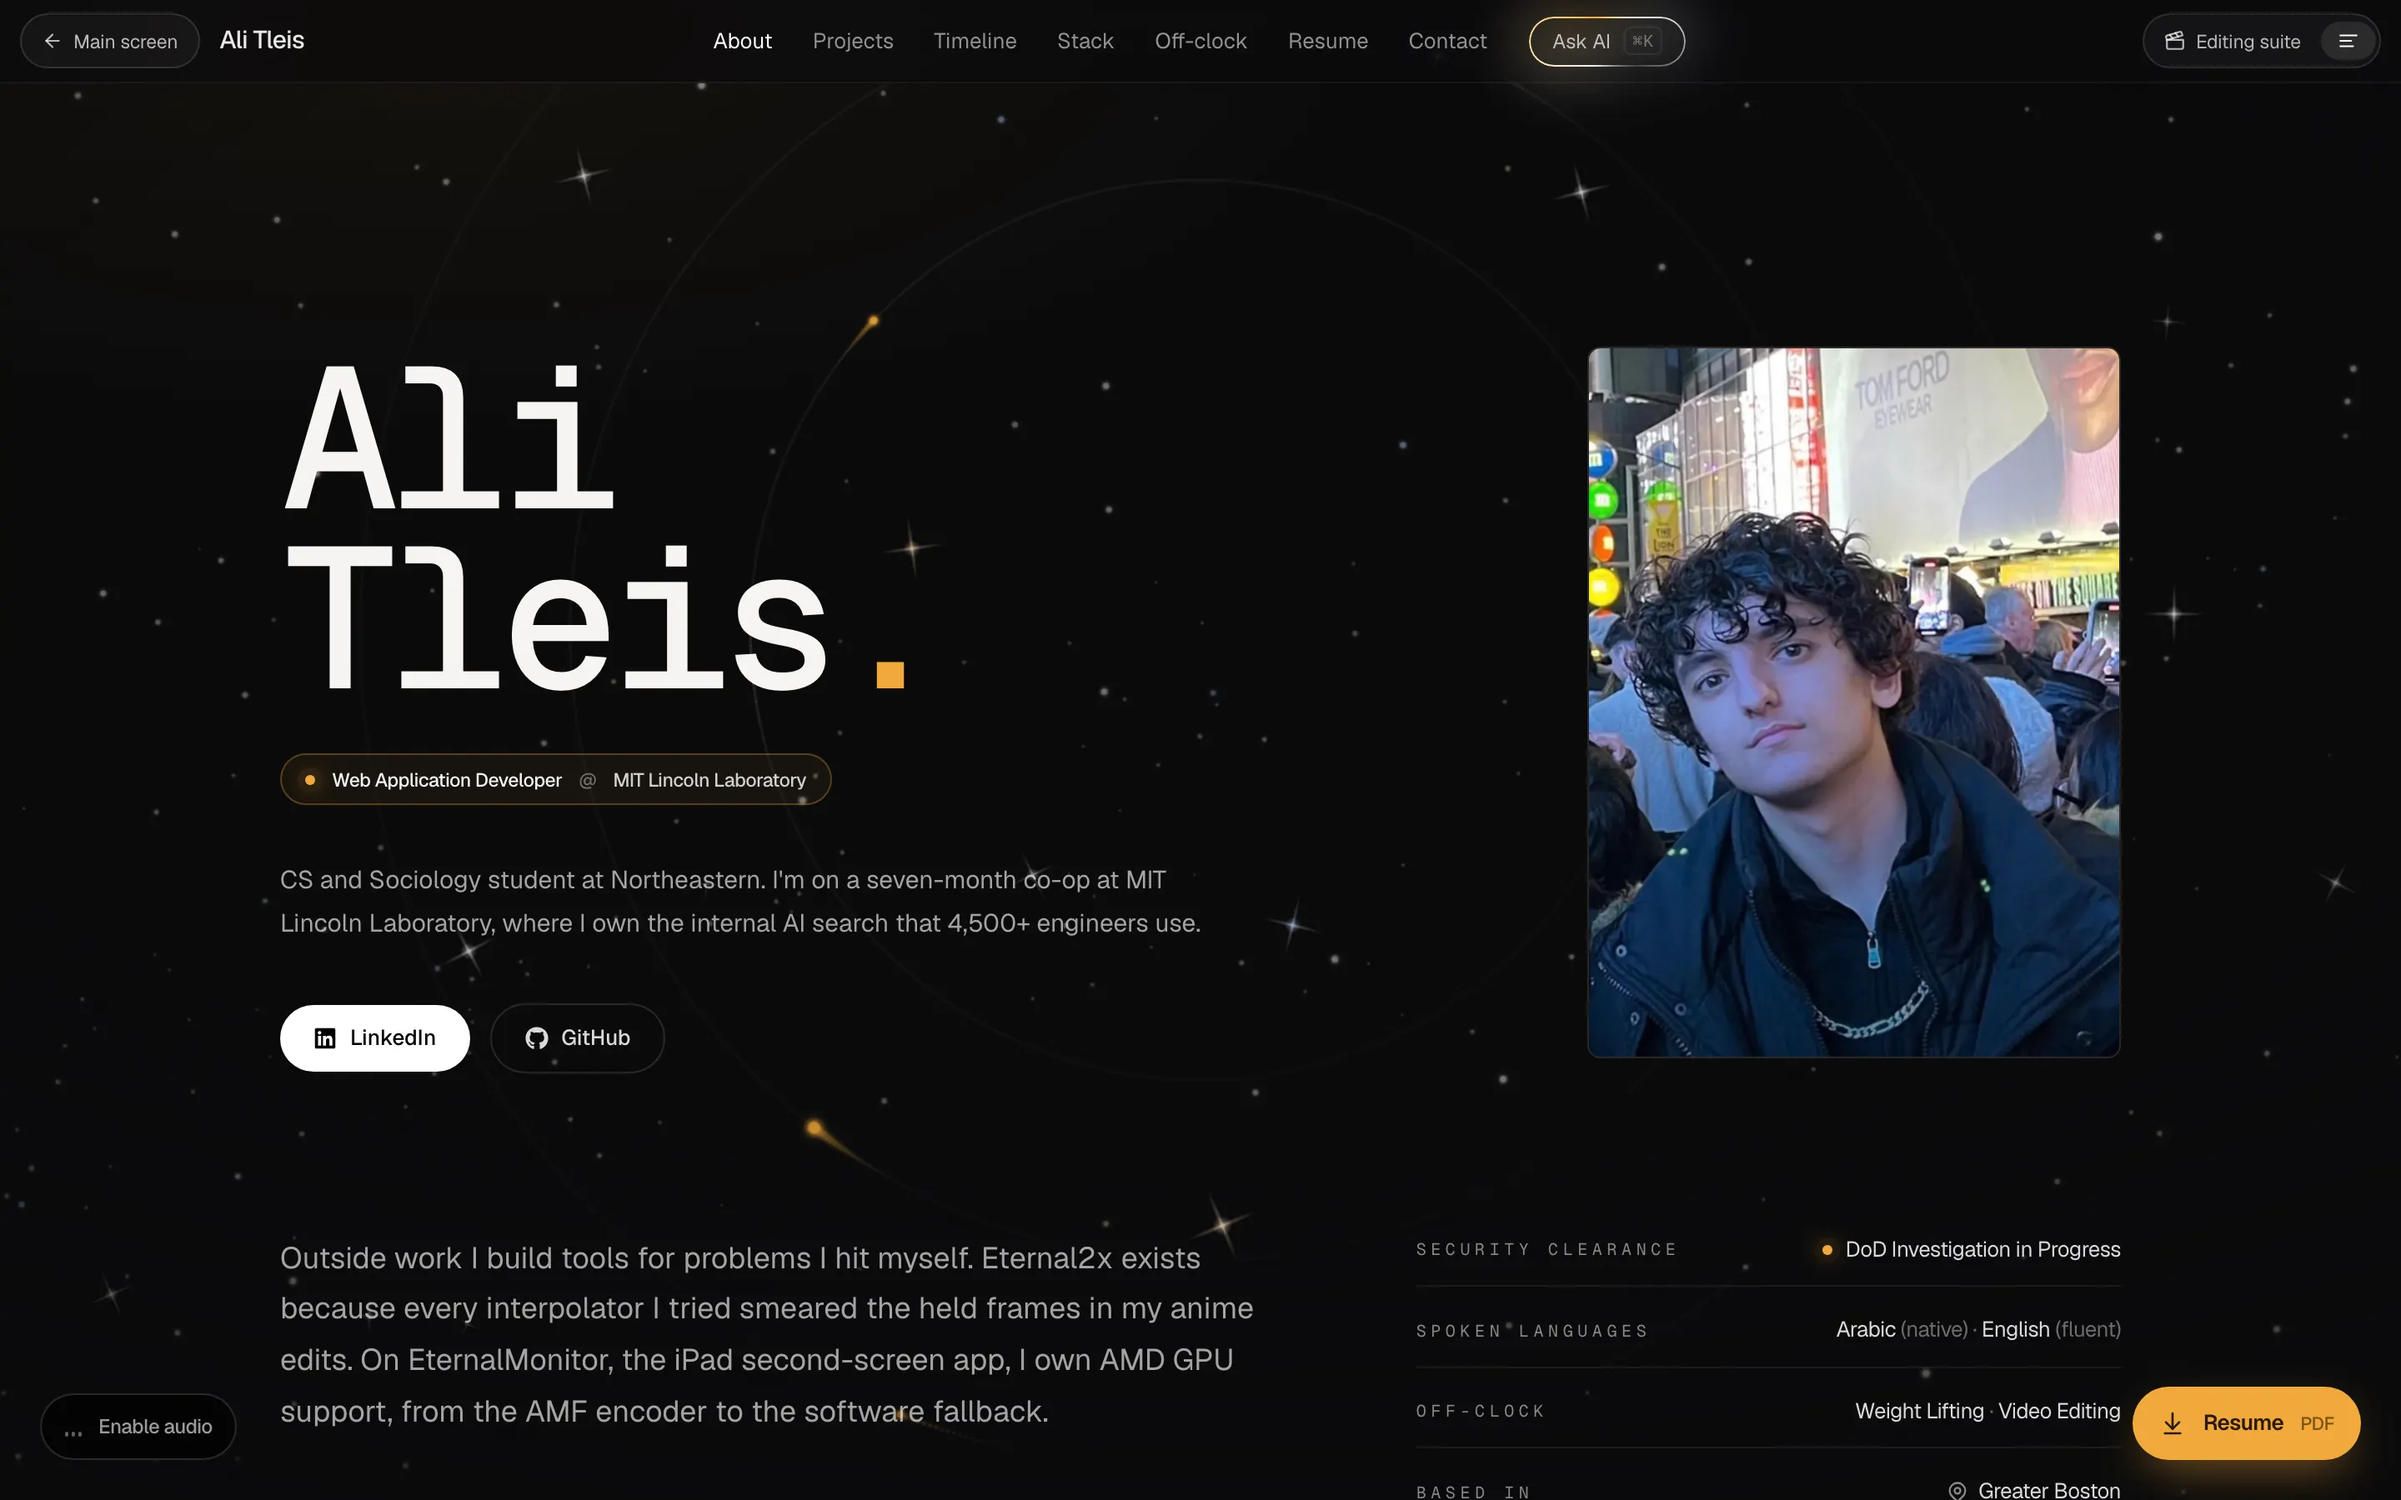
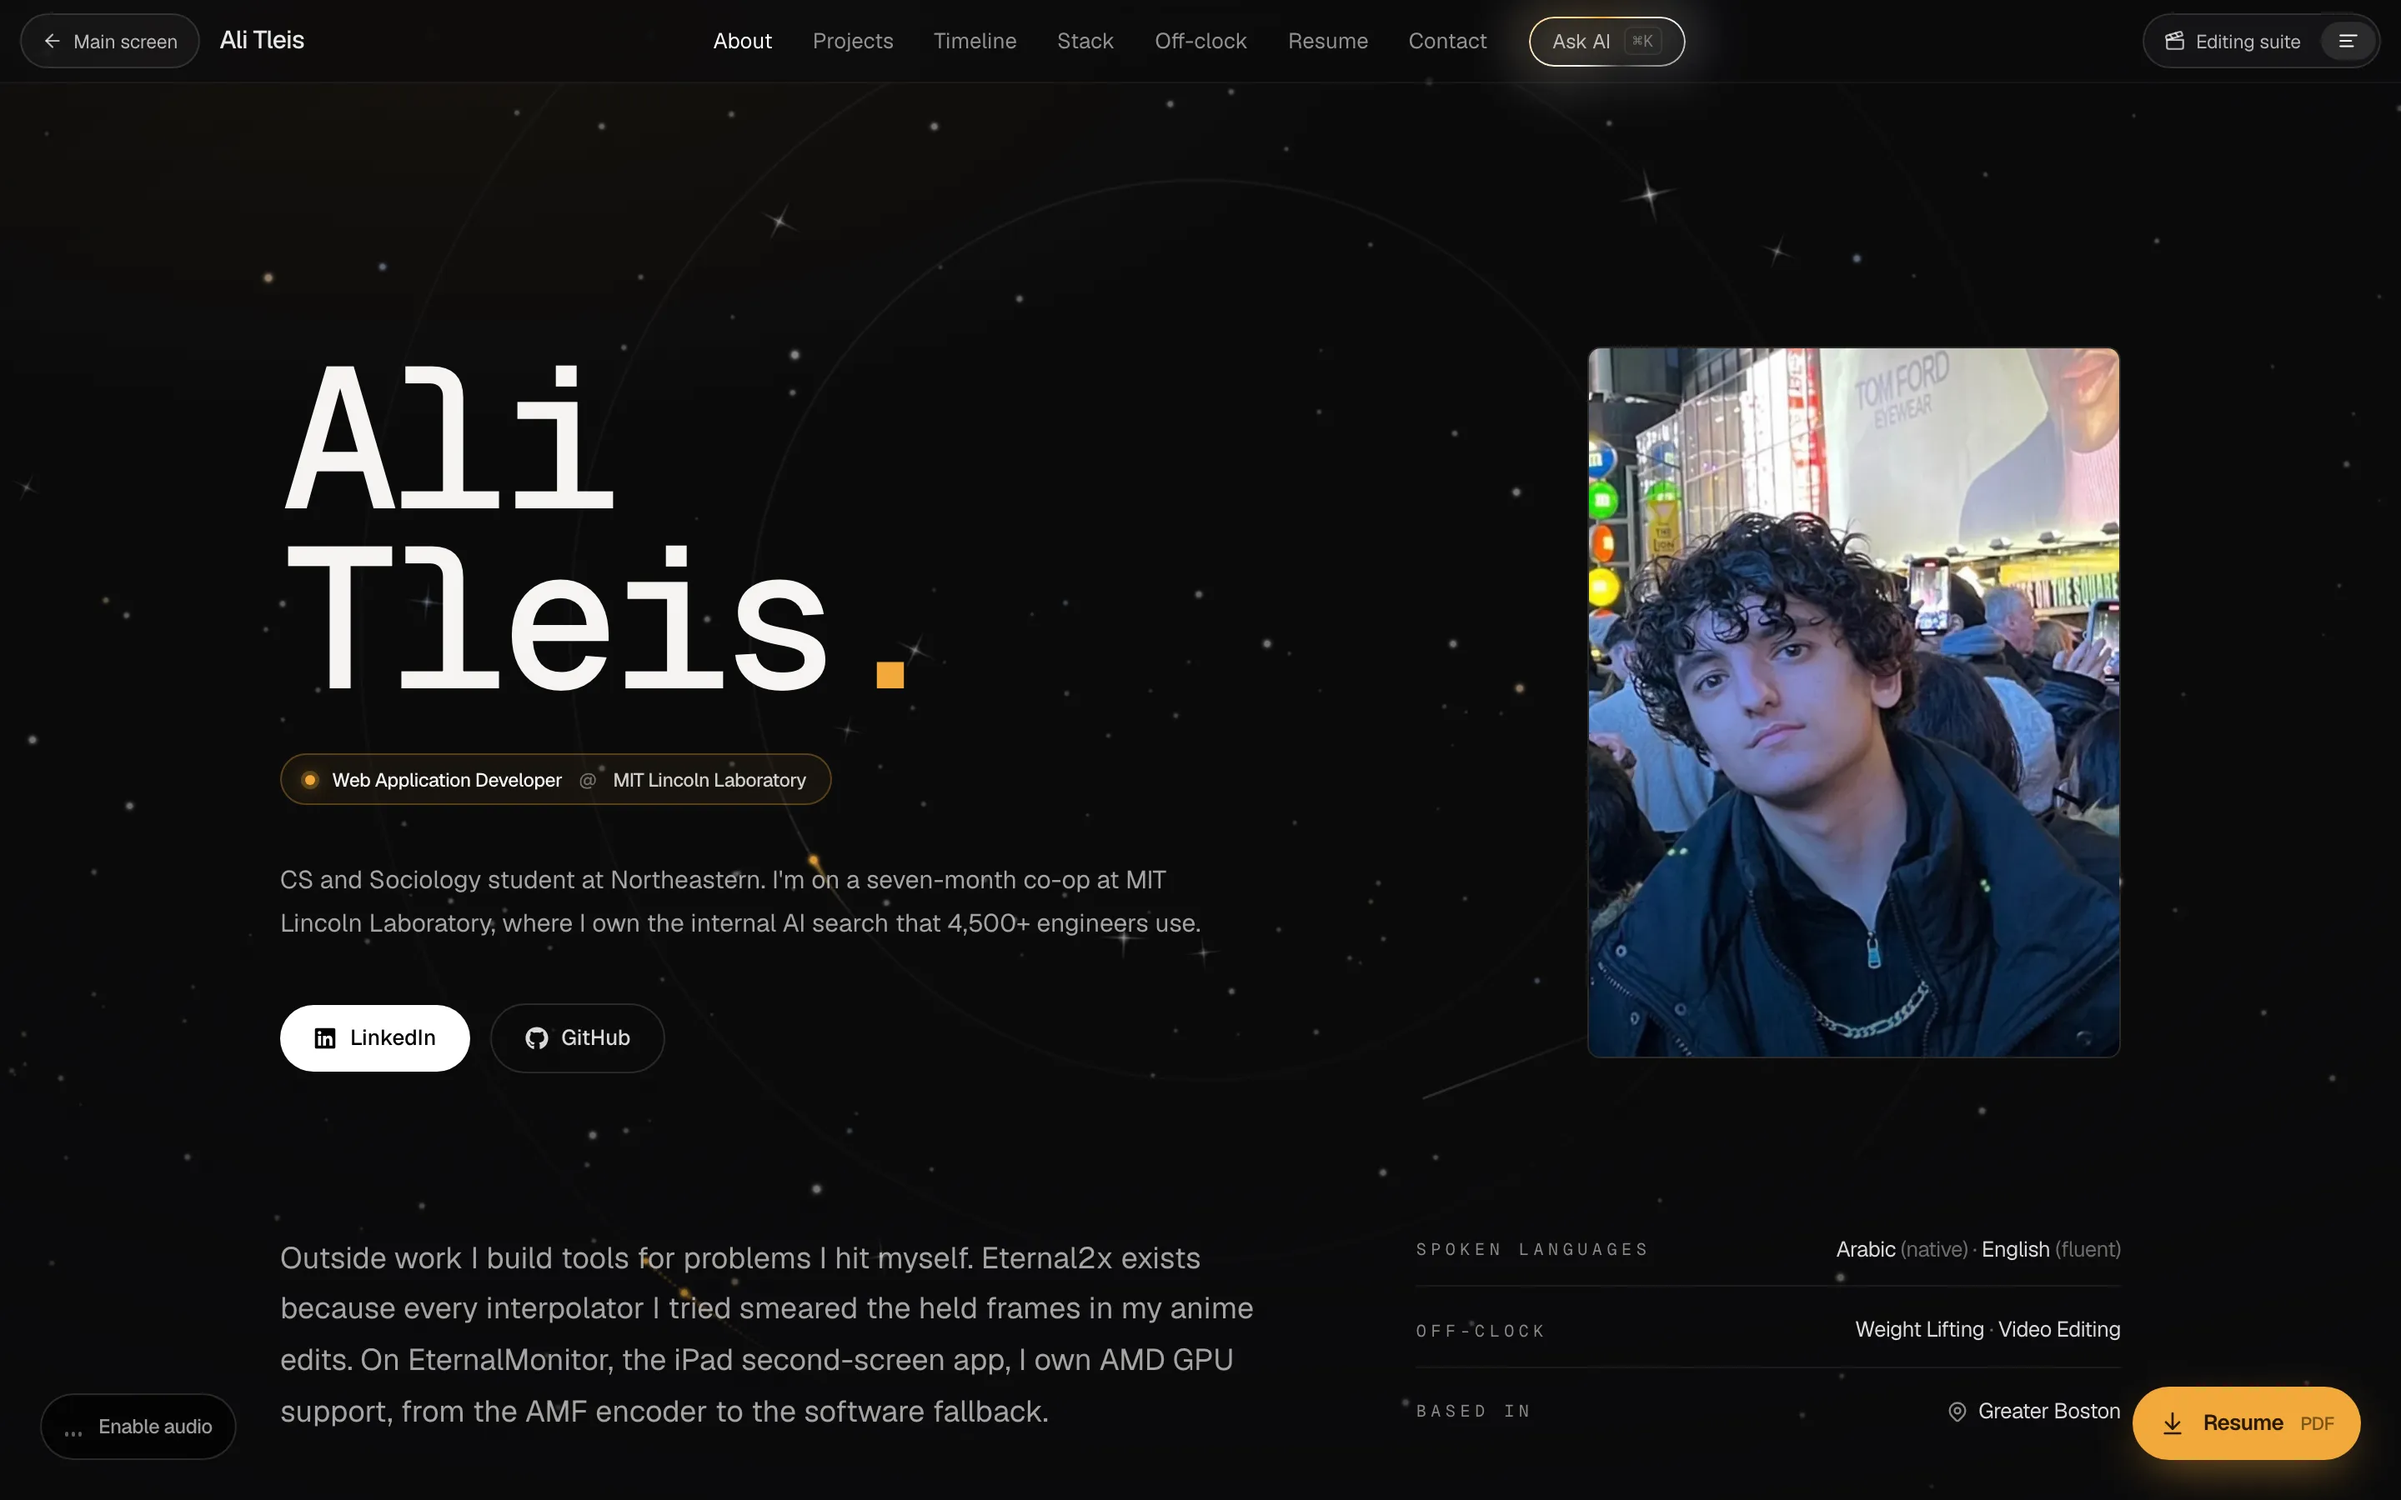
fix: recapture Ali Tleis's portfolio pages without his security clearance line

diff --git a/lib/engineers.ts b/lib/engineers.ts
@@ -1100,6 +1100,8 @@ export const engineers: Engineer[] = [
       },
     ],
     portfolio: {
+      // The captures leave out his security clearance line, which this site
+      // does not show (see the people dossier).
       url: 'https://alitleis.dev',
       summary:
         'Opens on a split screen with two ways in: a recruiter-friendly reading view over a starfield, and an editing suite that rebuilds the whole portfolio as a 75-second video timeline you can scrub, scored to Eyes Without a Face. Warm near-black with a single amber accent.',
